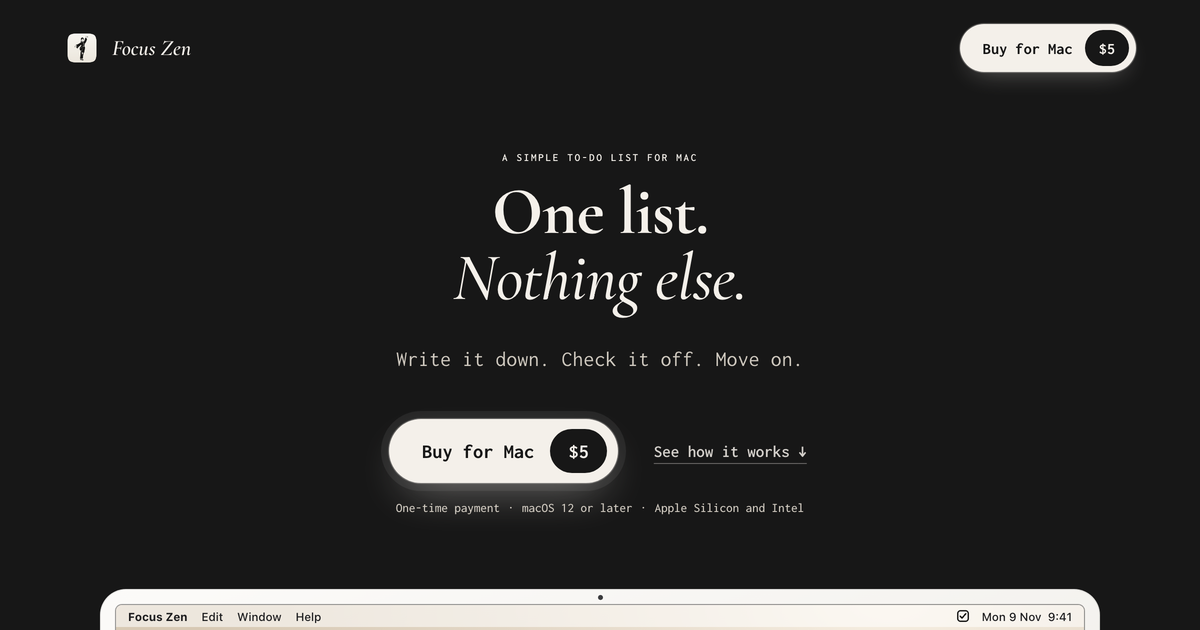
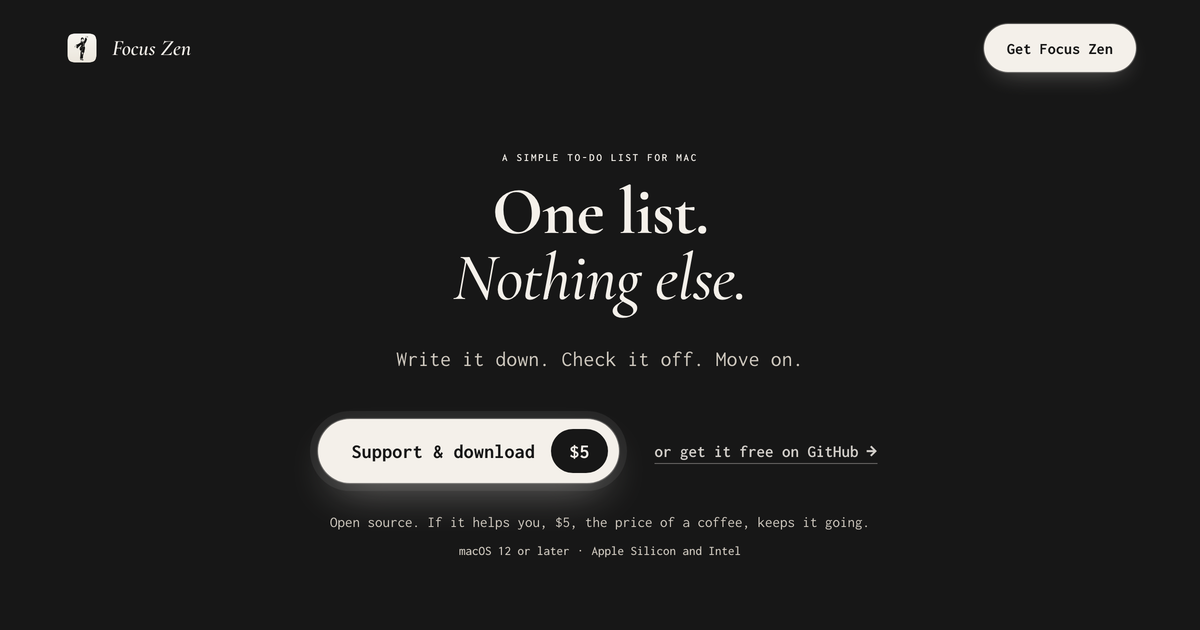
Website: free and open source, $5 to support
Focus Zen is MIT on GitHub, so the page says so and offers both paths:
- Hero and closing band: "Support & download [$5]" (Stripe) and a
  quiet "or get it free on GitHub" link to the latest release. Note:
  "Open source. If it helps you, $5, the price of a coffee, keeps it
  going."
- Header: one short "Get Focus Zen" button that scrolls to the closing
  band ("Free and open source. Worth a coffee?").
- The "Pay once" card becomes "Open source"; titles and descriptions say
  "simple to-do list" and "free and open source; $5 to support it".
- /thanks: "Thank you for your support. Your download is ready." and
  "Your coffee keeps Focus Zen going."
- og.png is made from the new hero.

diff --git a/site/index.html b/site/index.html
@@ -3,10 +3,10 @@
   <head>
     <meta charset="UTF-8" />
     <meta name="viewport" content="width=device-width, initial-scale=1" />
-    <title>Focus Zen — a quiet checklist for your Mac</title>
+    <title>Focus Zen — a simple to-do list for your Mac</title>
     <meta
       name="description"
-      content="One list. Nothing else. A quiet checklist for macOS that keeps your list on your Mac: no account, no cloud, no tracking. $5, one time."
+      content="One list. Nothing else. A simple to-do list for macOS that keeps your list on your Mac: no account, no cloud, no tracking. Free and open source; $5 if you want to support it."
     />
     <link rel="canonical" href="https://focus.mobayilo.com/" />
     <meta name="theme-color" content="#ffffff" />
@@ -18,7 +18,7 @@
     <meta property="og:title" content="Focus Zen — One list. Nothing else." />
     <meta
       property="og:description"
-      content="A quiet checklist for macOS. Your list never leaves your Mac. $5, one time."
+      content="A simple to-do list for macOS. Your list never leaves your Mac. Free and open source; $5 to support it."
     />
     <meta property="og:image" content="https://focus.mobayilo.com/og.png" />
     <meta property="og:image:width" content="1200" />
@@ -42,11 +42,7 @@
           <img src="./src/assets/icon-256.png" alt="" width="36" height="36" />
           <span>Focus Zen</span>
         </a>
-        <a
-          class="mo-btn mo-btn-primary lp-buy lp-buy-sm"
-          href="https://buy.stripe.com/dRm28r1J49lh5h78uq9k403"
-          ><span>Buy for Mac</span><span class="lp-buy-price">$5</span></a
-        >
+        <a class="mo-btn mo-btn-primary lp-buy lp-buy-sm lp-buy-plain" href="#get">Get Focus Zen</a>
       </header>
       <div class="lp-hero-text">
         <p class="lp-kicker">A simple to-do list for Mac</p>
@@ -54,12 +50,12 @@
         <p class="lp-hero-lede">Write it down. Check it off. Move on.</p>
         <div class="lp-actions">
           <a class="mo-btn mo-btn-primary lp-buy" href="https://buy.stripe.com/dRm28r1J49lh5h78uq9k403"
-            ><span>Buy for Mac</span><span class="lp-buy-price">$5</span></a
+            ><span>Support &amp; download</span><span class="lp-buy-price">$5</span></a
           >
-          <a class="lp-how" href="#how">See how it works <span aria-hidden="true">↓</span></a>
+          <a class="lp-how" href="https://github.com/adusingi/focus-zen/releases/latest">or get it free on GitHub <span aria-hidden="true">→</span></a>
         </div>
+        <p class="lp-hero-note">Open source. If it helps you, $5, the price of a coffee, keeps it going.</p>
         <ul class="lp-hero-meta lp-meta-list">
-          <li>One-time payment</li>
           <li>macOS 12 or later</li>
           <li>Apple Silicon and Intel</li>
         </ul>
@@ -434,28 +430,31 @@
               stroke-linejoin="round"
               aria-hidden="true"
             >
-              <circle cx="16" cy="16" r="12" />
-              <path
-                d="M19.5 11.5c-.8-1-2-1.5-3.5-1.5-2 0-3.5 1-3.5 2.7 0 3.8 7.5 2 7.5 6 0 1.8-1.6 2.8-3.8 2.8-1.6 0-3-.6-3.8-1.7M16 8v2M16 22v2"
-              />
+              <path d="M11 10 5 16l6 6M21 10l6 6-6 6M18 7l-4 18" />
             </svg>
-            <h3>Pay once</h3>
-            <p>$5, one time. No subscription.</p>
+            <h3>Open source</h3>
+            <p>Free on GitHub. $5 if you want to support it.</p>
           </div>
         </div>
       </section>
     </main>
 
-    <footer class="lp-end lp-ink" id="buy">
+    <footer class="lp-end lp-ink" id="get">
       <div class="mo-container">
         <img src="./src/assets/icon-256.png" alt="" width="88" height="88" />
-        <h2>Clear your head <em>for $5.</em></h2>
-        <p class="lp-end-text">Your list stays on your Mac. No account, no sync, no network access.</p>
-        <a class="mo-btn mo-btn-primary lp-buy" href="https://buy.stripe.com/dRm28r1J49lh5h78uq9k403"
-          ><span>Buy for Mac</span><span class="lp-buy-price">$5</span></a
-        >
+        <h2>Free and open source. <em>Worth a coffee?</em></h2>
+        <p class="lp-end-text">
+          Focus Zen is free, and the code is on GitHub. If it gives you a calmer day, $5 helps me keep it simple,
+          private and maintained.
+        </p>
+        <div class="lp-actions lp-end-actions">
+          <a class="mo-btn mo-btn-primary lp-buy" href="https://buy.stripe.com/dRm28r1J49lh5h78uq9k403"
+            ><span>Support &amp; download</span><span class="lp-buy-price">$5</span></a
+          >
+          <a class="lp-how" href="https://github.com/adusingi/focus-zen/releases/latest">or get it free on GitHub <span aria-hidden="true">→</span></a>
+        </div>
         <ul class="lp-meta lp-meta-list">
-          <li>One-time payment</li>
+          <li>No subscription</li>
           <li>macOS 12 or later</li>
           <li>Apple Silicon and Intel</li>
           <li>9.7 MB</li>

diff --git a/site/src/hero.css b/site/src/hero.css
@@ -78,8 +78,17 @@
   margin-top: 44px;
 }
 
+/* Why there are two options: support with $5, or the free download. */
+.lp-hero-note {
+  max-width: 74ch;
+  margin: 28px 0 0;
+  color: var(--muted);
+  font: 400 0.9375rem/1.55 var(--mo-font-sans);
+  text-wrap: balance;
+}
+
 .lp-hero-meta {
-  margin: var(--mo-space-lg) 0 0;
+  margin: var(--mo-space-sm) 0 0;
   color: var(--muted);
   font: var(--mo-text-caption);
 }
@@ -141,6 +150,19 @@
 .lp-buy-sm .lp-buy-price {
   height: 36px;
   padding: 0 14px;
+}
+
+/* The header button has no price chip ("Get Focus Zen"), so its padding is even. */
+.lp-buy-plain {
+  padding: 0 22px;
+}
+
+/* The closing band repeats the hero's two options, centred. */
+.lp-end-actions {
+  align-items: center;
+  justify-content: center;
+  gap: 20px 32px;
+  margin-top: 0;
 }
 
 /* The second action is a quiet text link, so the Buy button has no rival. */

diff --git a/site/thanks.html b/site/thanks.html
@@ -24,9 +24,9 @@
 
     <main class="lp-thanks mo-container">
       <img class="lp-thanks-icon" src="./src/assets/icon-512.png" alt="" width="112" height="112" />
-      <p class="lp-kicker">Thank you</p>
-      <h1>Your list is <em>waiting.</em></h1>
-      <p class="lp-lede">Your payment went through. Download Focus Zen, and give your head a rest.</p>
+      <p class="lp-kicker">Payment complete</p>
+      <h1>Thank you for your support.<br /><em>Your download is ready.</em></h1>
+      <p class="lp-lede">Your coffee keeps Focus Zen going.</p>
 
       <a
         class="mo-btn mo-btn-lg mo-btn-primary"

diff --git a/README.md b/README.md
@@ -117,7 +117,7 @@ The landing page at <https://focus.mobayilo.com> lives in `site/`: plain HTML an
 
 | Page | Purpose |
 | --- | --- |
-| `site/index.html` | The sales page. Every **Buy** button opens the Stripe payment link. |
+| `site/index.html` | The home page. **Support & download ($5)** opens the Stripe payment link; **or get it free on GitHub** opens the latest release. |
 | `site/thanks.html` | Where Stripe sends buyers after payment (`/thanks`): the download and the install steps. |
 | `site/404.html` | Shown for any unknown address. |
 
